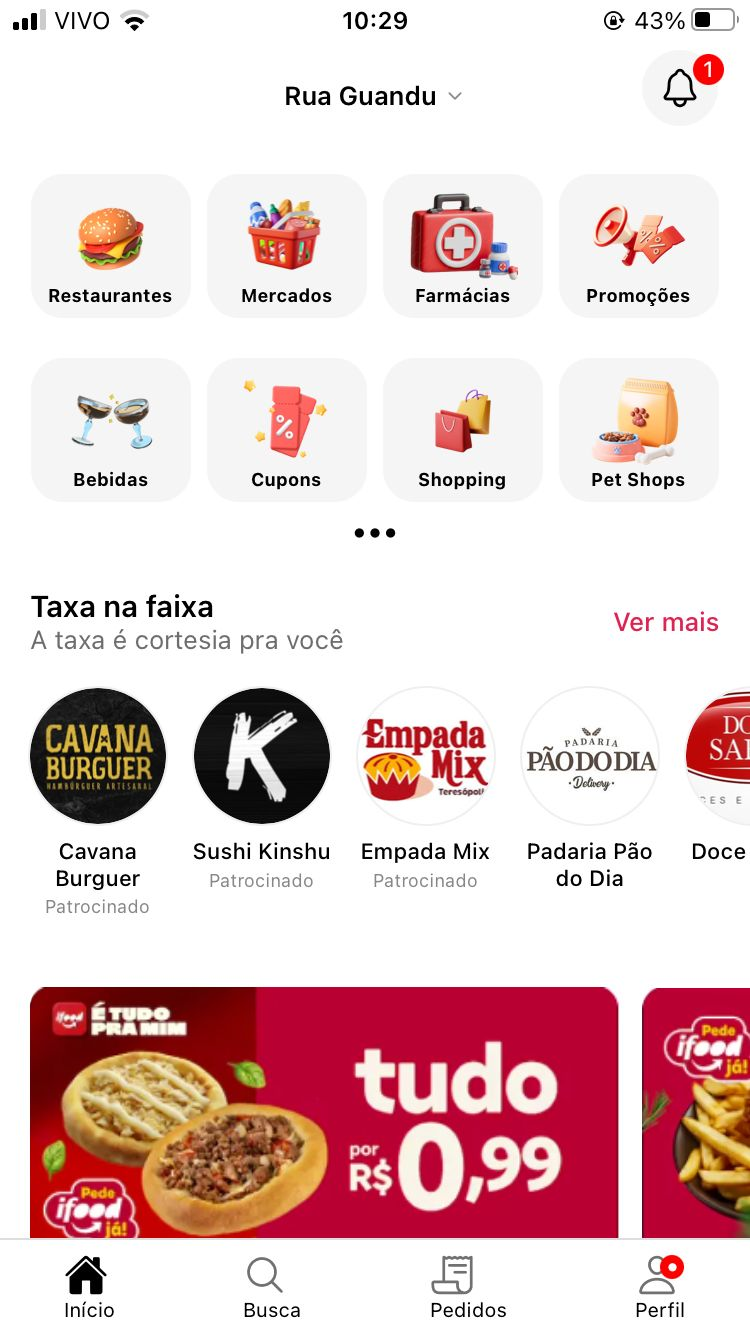
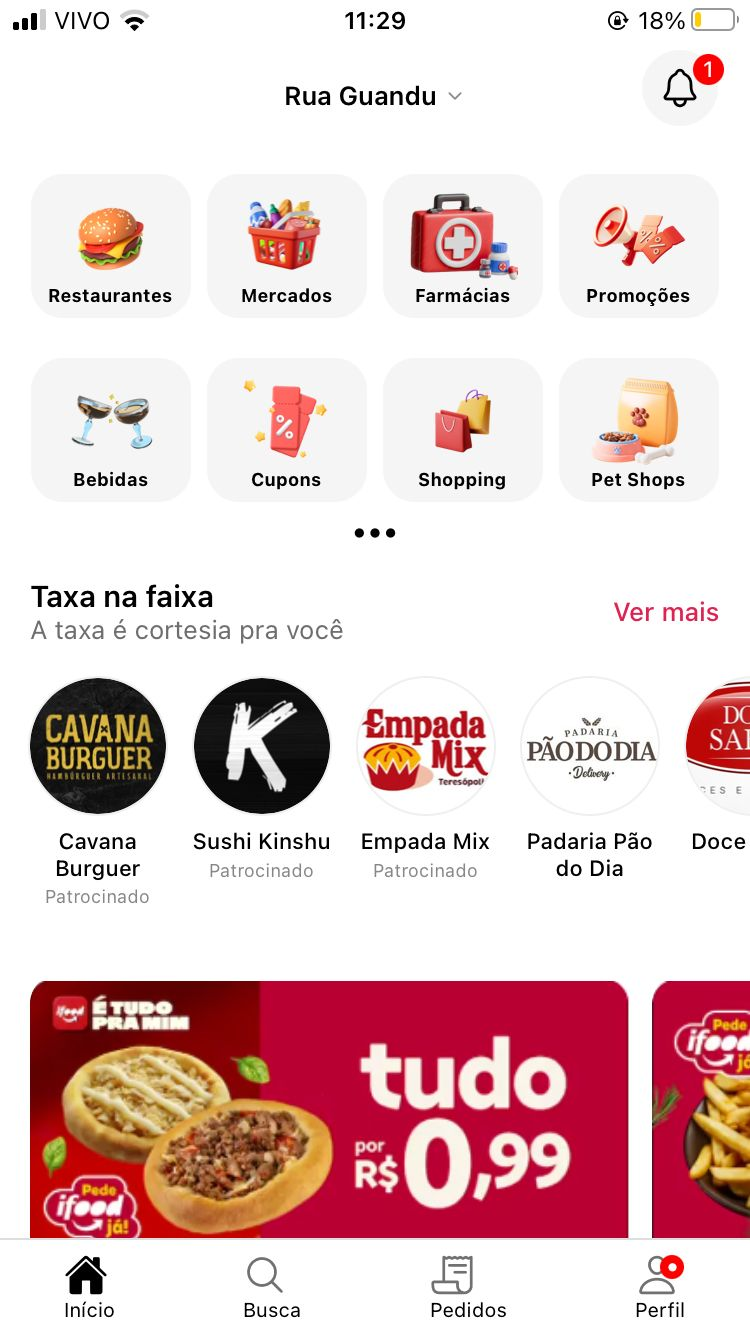
Ajustando medidas de ambas as telas

diff --git a/src/screens/Inicio/styles.ts b/src/screens/Inicio/styles.ts
@@ -69,7 +69,10 @@ export const styles = StyleSheet.create({
         flexDirection: "row",
         justifyContent: "space-between",
         alignItems: "center",
-        padding: 15
+        paddingTop: 10,
+        paddingLeft:15,
+        paddingBottom:15,
+        paddingRight:15
     },
     taxaTitulo: {
         fontWeight: "600",
@@ -90,11 +93,11 @@ export const styles = StyleSheet.create({
     },
     promocoes: {
         padding: 15,
-        marginTop: 15
+        marginTop: 18
     },
     promocao: {
         borderRadius: 15,
-        width: 295,
+        width: 300,
         height: 150,
         resizeMode: "contain",
         marginRight: 11,

diff --git a/src/screens/Busca/styles.ts b/src/screens/Busca/styles.ts
@@ -12,14 +12,14 @@ export const styles = StyleSheet.create({
         alignItems: "center",
         backgroundColor: "#fff",
         borderRadius: 30,
-        marginTop: 35,
+        marginTop: 32,
         marginHorizontal: 15,
         paddingHorizontal: 15,
     },
     input: {
         backgroundColor: "#ffff",
         flex: 1,
-        paddingVertical: 15,
+        paddingVertical: 17,
         paddingHorizontal: 15,
         fontSize: 13.5,
         fontWeight: 500,

diff --git a/App.tsx b/App.tsx
@@ -6,7 +6,7 @@ import { Busca } from "./src/screens/Busca";
 export default function App() {
   return (
    //<Inicio />
-   <Busca/>
+    <Busca/>
 
   )
 }
